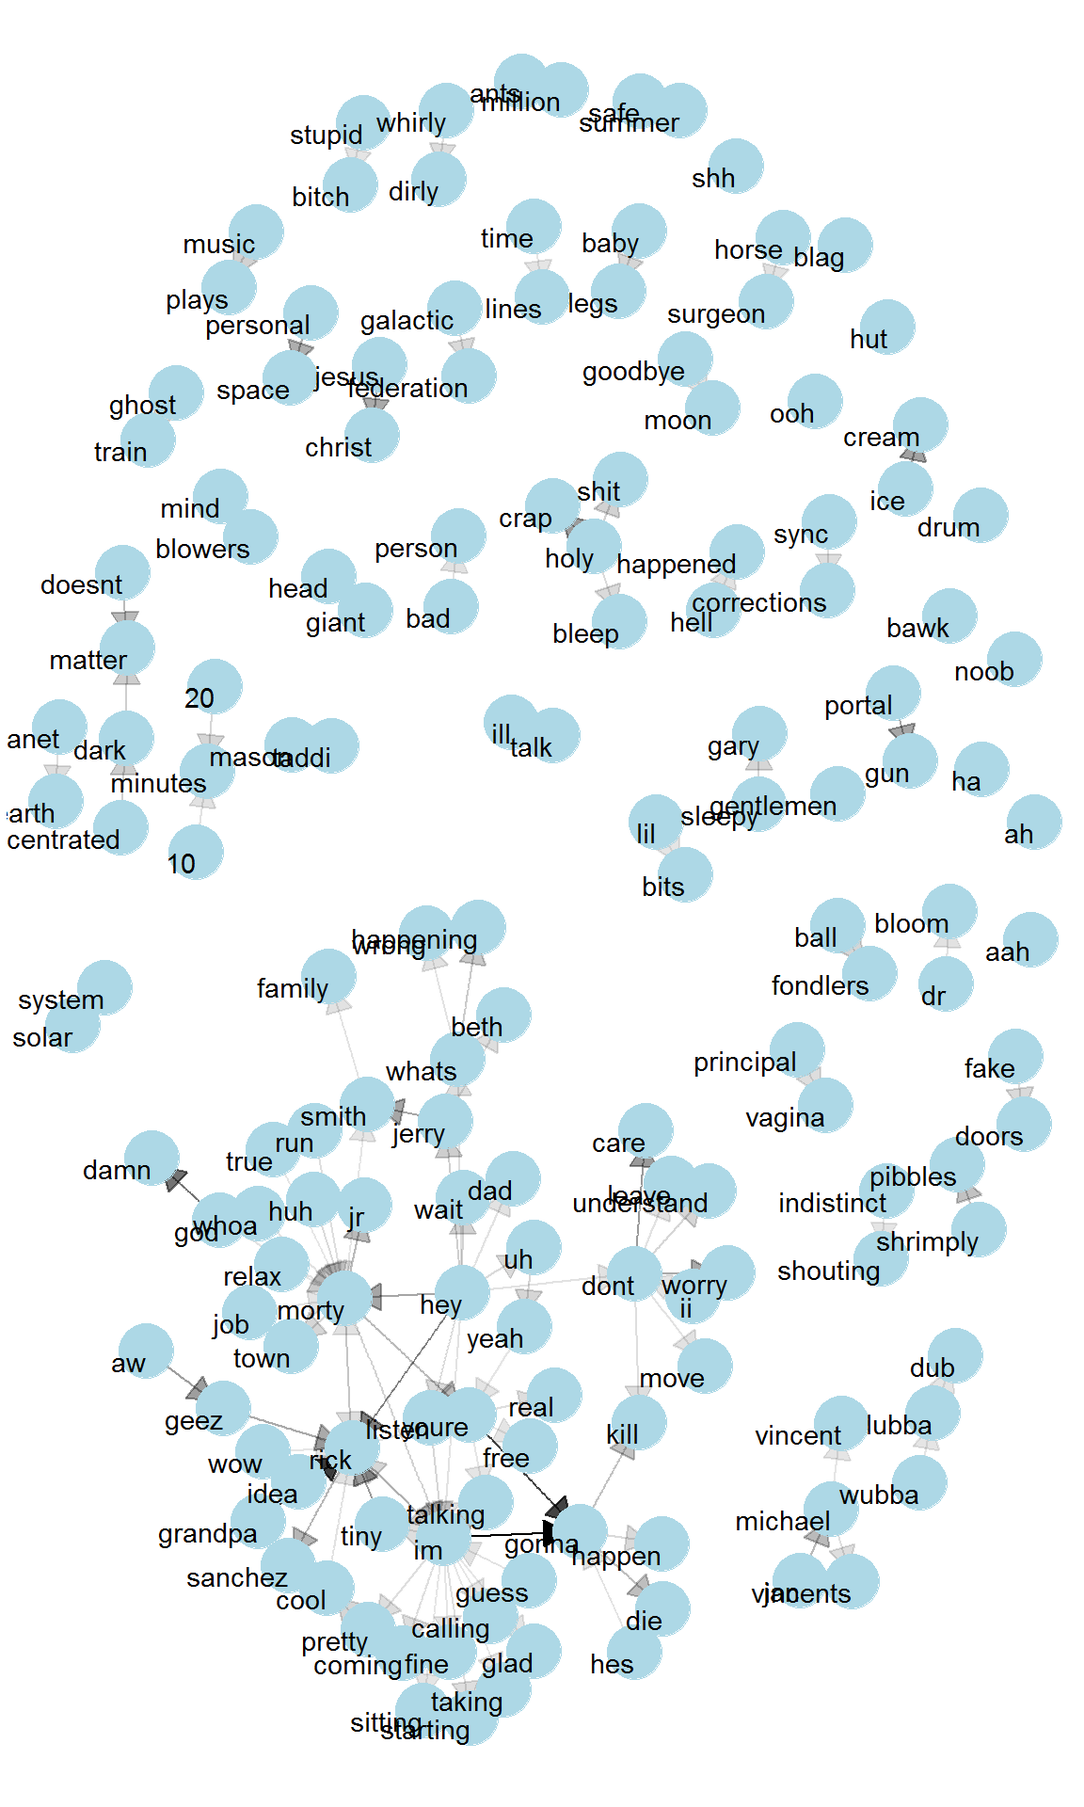
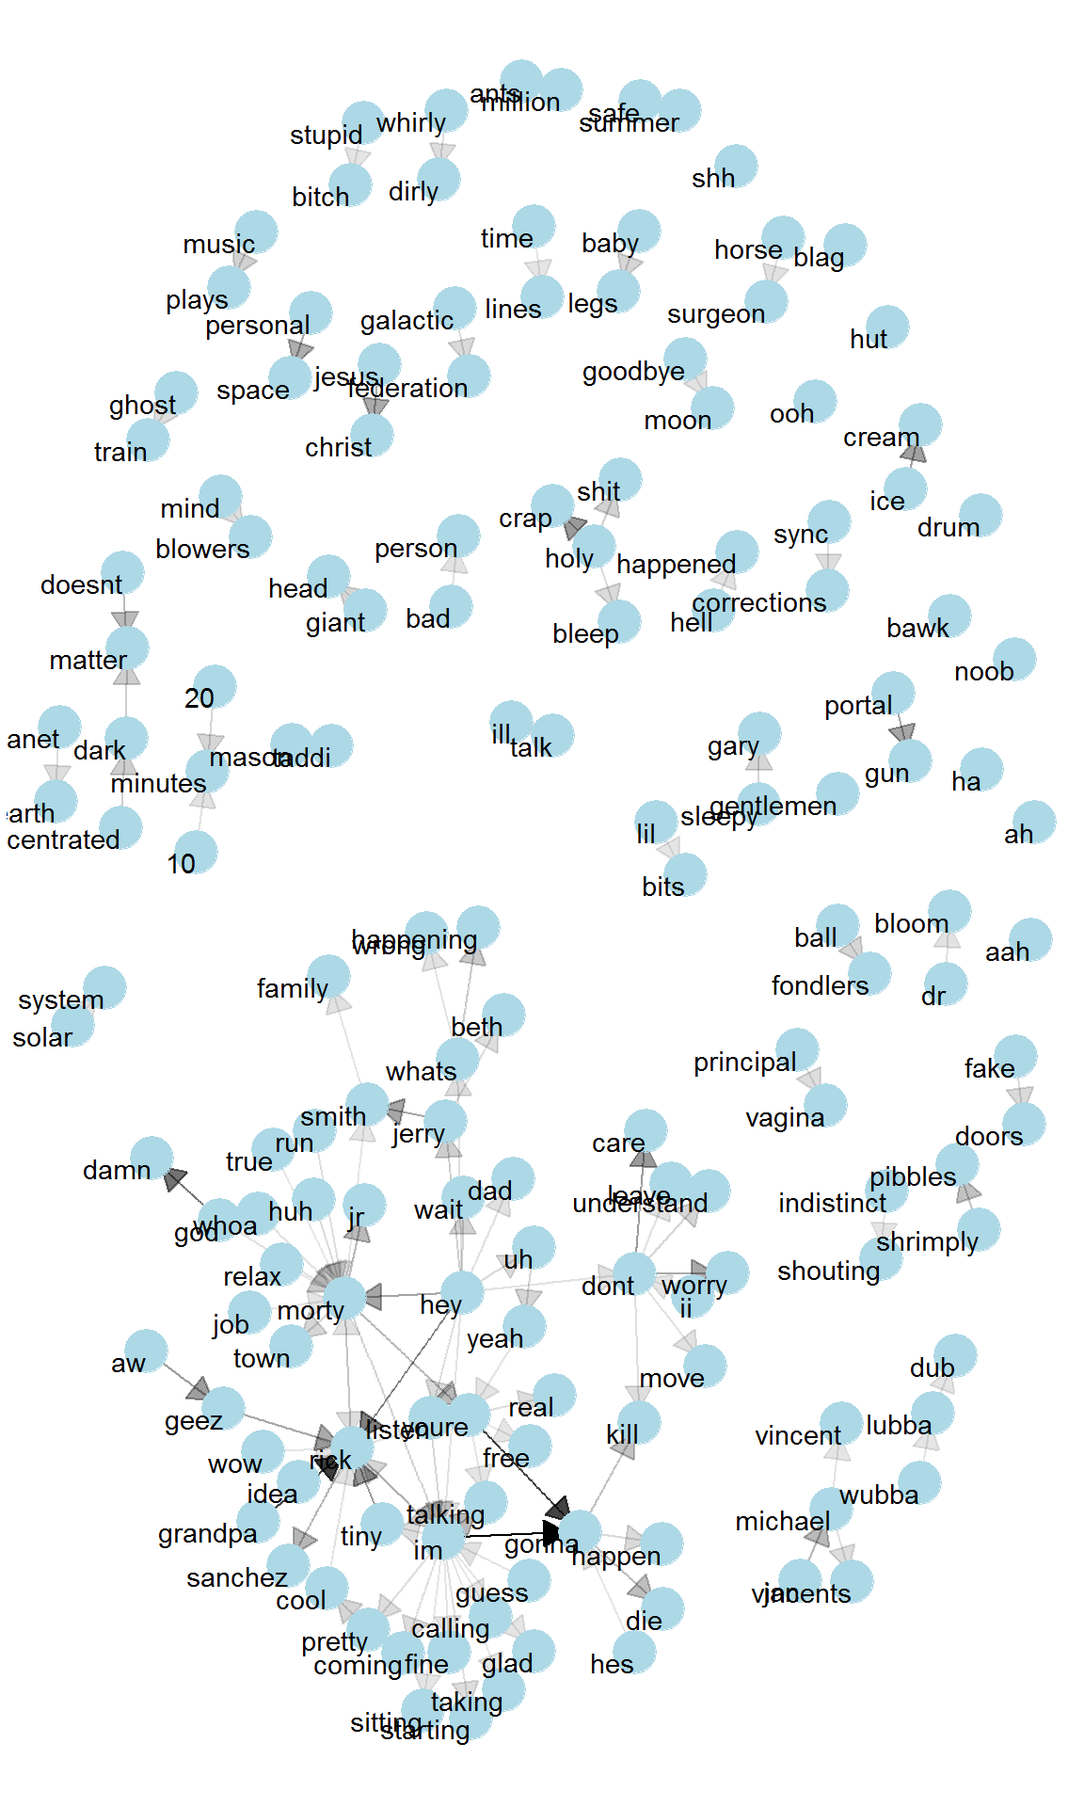
n

diff --git a/public/2017/11/06/test-page/index.html b/public/2017/11/06/test-page/index.html
@@ -134,9 +134,12 @@ ggplot(randmSent, aes(sentiment)) + geom_bar(fill = &quot;orange&quot;, color = 
 </div>
 <div id="number-of-times-each-character-is-mentioned-per-season" class="section level3">
 <h3>Number of times each character is mentioned per season:</h3>
-<p><img src="/post/2017-11-06-test-page_files/figure-html/unnamed-chunk-5-1.png" width="672" /> #### It’s not suprising that the most mentioned characters of Rick and Morty are Rick and Morty. However, we can see Morty was the real star of the first season. He was mentioned about twice as much as Rick and after the first season, he dropped all the way down. Justin Roiland, the voice of Rick and Morty, said he felt Rick saying “Morty” was a verbal crutch and wanted to try to get rid of it. As we can see by the graph, he really did follow through.</p>
-<div id="term-frequencies-are-a-large-part-in-text-mining.-so-lets-plot-the-top-20-words-per-season-and-exclude-main-character-names-very-common-everyday-words-aka-stop-words-and-some-random-words-from-the-subtitle-file." class="section level4">
-<h4>Term frequencies are a large part in text mining. So, let’s plot the top 20 words per season and exclude main character names, very common everyday words, aka stop words, and some random words from the subtitle file.</h4>
+<p><img src="/post/2017-11-06-test-page_files/figure-html/unnamed-chunk-5-1.png" width="672" /></p>
+<div id="its-not-suprising-that-the-most-mentioned-characters-of-rick-and-morty-are-rick-and-morty.-however-we-can-see-morty-was-the-real-star-of-the-first-season.-he-was-mentioned-about-twice-as-much-as-rick-and-after-the-first-season-he-dropped-all-the-way-down.-justin-roiland-the-voice-of-rick-and-morty-said-in-a-podast-that-he-felt-rick-saying-morty-was-a-verbal-crutch-and-wanted-to-try-to-get-rid-of-it.-as-we-can-see-by-the-graph-he-really-did-follow-through." class="section level4">
+<h4>It’s not suprising that the most mentioned characters of Rick and Morty are Rick and Morty. However, we can see Morty was the real star of the first season. He was mentioned about twice as much as Rick and after the first season, he dropped all the way down. Justin Roiland, the voice of Rick and Morty, said in a podast that he felt Rick saying “Morty” was a verbal crutch and wanted to try to get rid of it. As we can see by the graph, he really did follow through.</h4>
+</div>
+<div id="tf-idf-is-the-term-frequency-inverse-document-frequency.-it-is-a-large-part-in-text-mining.-words-that-appear-often-get-a-lower-tf-idf-and-uncommon-ones-a-higher-tf-idf.-so-lets-plot-the-top-20-words-per-season-and-exclude-main-character-names-very-common-everyday-words-aka-stop-words-and-some-random-words-from-the-subtitle-file." class="section level4">
+<h4>TF-IDF is the term frequency-inverse document frequency. It is a large part in text mining. Words that appear often get a lower tf-idf and uncommon ones a higher tf-idf. So, let’s plot the top 20 words per season and exclude main character names, very common everyday words, aka stop words, and some random words from the subtitle file.</h4>
 <pre class="r"><code>
 episodeWords &lt;- df %&gt;% unnest_tokens(word, Text) %&gt;% anti_join(
 rbind(data.frame(word = c(&quot;xhmikosr&quot;, &quot;www.addic7ed.com&quot;, &quot;sync&quot;,
@@ -149,11 +152,13 @@ plotWords &lt;- episodeWords %&gt;% arrange(desc(tf_idf)) %&gt;% mutate(word =fa
 plotWords %&gt;% top_n(20) %&gt;% ggplot(aes(word, tf_idf, fill = as.factor(season_num))) + geom_col() + labs(x=
 NULL, y = &quot;tf-idf&quot;) + coord_flip() </code></pre>
 <p><img src="/post/2017-11-06-test-page_files/figure-html/unnamed-chunk-6-1.png" width="576" /></p>
-<p>We can see from that the top positions for each season are: meeseeks, unity and pickle, which, if you watch Rick and Morty, is not so suprising. One thing I loved is the word “noob” made the list. Noob Noob is a favorite character of mine. Although, he had few screentime, he still managed to make an impact on the episode/season.</p>
+<p>We can see from that the top positions for each season are: meeseeks, unity and pickle, which, if you watch Rick and Morty, is not so suprising.</p>
 </div>
 </div>
-<div id="now-we-go-to-another-imortant-topic-in-text-mining-n-grams." class="section level2">
-<h2>Now we go to another imortant topic in text mining, N-Grams.</h2>
+<div id="now-we-go-to-another-important-topic-in-text-mining-n-grams." class="section level2">
+<h2>Now we go to another important topic in text mining, N-Grams.</h2>
+<div id="n-grams-allow-us-to-look-at-the-relationship-between-words-in-text.-we-will-use-bigrams-theyre-called-bigrams-because-we-set-n2-which-means-we-are-looking-at-only-pairs-of-words-at-a-time.-if-we-wanted-to-look-at-pairs-of-three-words-this-could-easily-be-done-by-switching-n-3-in-the-previous-code-block-but-bigrams-should-work-best.-using-bigrams-we-can-see-what-words-follow-specific-words.-this-is-how-we-can-approach-the-problem-with-the-word-god-from-the-sentiment." class="section level4">
+<h4>N-grams allow us to look at the relationship between words in text. We will use bigrams, they’re called bigrams because we set N=2, which means we are looking at only pairs of words at a time. If we wanted to look at pairs of three words, this could easily be done by switching n = 3, in the previous code block, but bigrams should work best. Using bigrams, we can see what words follow specific words. This is how we can approach the problem with the word “god” from the sentiment.</h4>
 <pre class="r"><code>plotWords %&gt;% group_by(season_num) %&gt;% top_n(15) %&gt;% ungroup %&gt;%
 ggplot(aes(word, tf_idf, fill = as.factor(season_num))) + geom_col(show.legend =
 FALSE) + labs(x = NULL, y = &quot;tf-idf&quot;) + facet_wrap(~season_num, ncol = 1, scales
@@ -192,14 +197,13 @@ episodeGramsSeperate %&gt;% filter(word2 ==&quot;god&quot;) %&gt;% count(word1, 
 ## 5     a     4
 bigram_tf_idf &lt;- gramcountUnited %&gt;% filter((bigram != &quot;xhmikosrwwwaddic7edcom&quot;) &amp; (bigram != &quot;suspenseful music plays&quot;) &amp; (bigram != &quot;music
 plays&quot;)  &amp; (bigram != &quot;suspenseful music&quot;) &amp;  (bigram != &quot;speaking alien language&quot;) &amp; (bigram != &quot;laughter&quot;)) %&gt;% count(season_num, bigram) %&gt;% bind_tf_idf(bigram, season_num, n)%&gt;% arrange(desc(tf_idf))  </code></pre>
-<div id="n-grams-allow-us-to-look-at-the-relationship-between-words-in-text.-we-will-use-bigrams-theyre-called-bigrams-because-we-set-n2-which-means-we-are-looking-at-only-pairs-of-words-at-a-time.-if-we-wanted-to-look-at-pairs-of-three-words-this-could-easily-be-done-by-switching-n-3-in-the-previous-code-block-but-bigrams-should-work-best.-using-bigrams-we-can-see-what-words-follow-specific-words.-this-is-how-we-can-approach-the-problem-with-the-word-god-from-the-sentiment.-from-the-table-above-we-can-see-the-words-following-the-word-god-and-the-words-after-the-word-god.-it-looks-like-my-godoh-god-and-god-damn-are-the-most-commonly-used-phrases-with-the-word-god.-if-we-assume-the-context-of-these-phrases-to-be-stricktly-negative-which-as-an-avid-fan-i-can-say-that-they-are-definitely-used-more-in-a-negative-context-and-if-we-treat-them-as-such-lets-see-how-that-changes-the-overall-sentiment-of-the-show." class="section level4">
-<h4>N-grams allow us to look at the relationship between words in text. We will use bigrams, they’re called bigrams because we set N=2, which means we are looking at only pairs of words at a time. If we wanted to look at pairs of three words, this could easily be done by switching n = 3, in the previous code block, but bigrams should work best. Using bigrams, we can see what words follow specific words. This is how we can approach the problem with the word “god” from the sentiment. From the table above, we can see the words following the word “god” and the words after the word “god”. It looks like “my god”“,”oh god&quot; and “god damn” are the most commonly used phrases with the word god. If we assume the context of these phrases to be stricktly negative, which as an avid fan, I can say that they are definitely used more in a negative context and if we treat them as such, let’s see how that changes the overall sentiment of the show.</h4>
 <pre class="r"><code>randmSent &lt;- tidydf %&gt;% inner_join(nrcSent)
 ## Joining, by = &quot;word&quot;
 randmSent[which(randmSent$word ==&quot;god&quot;),]$sentiment &lt;-&quot;negative&quot;
 randmSent &lt;- randmSent %&gt;% filter(sentiment == &quot;positive&quot; | sentiment == &quot;negative&quot;)
 ggplot(randmSent, aes(sentiment)) +geom_bar(fill = &quot;orange&quot;, color = &quot;black&quot;)</code></pre>
-<p><img src="/post/2017-11-06-test-page_files/figure-html/unnamed-chunk-8-1.png" width="672" /> #### Now we get a graph that Rick and Morty fans might find more accurate. I know I do.</p>
+<p><img src="/post/2017-11-06-test-page_files/figure-html/unnamed-chunk-8-1.png" width="672" /> #### From the table above, we can see the words following the word “god” and the words after the word “god”. It looks like “my god”“,”oh god&quot; and “god damn” are the most commonly used phrases with the word god. If we assume the context of these phrases to be stricktly negative, which as an avid fan, I can say that they are definitely used more in a negative context and if we treat them as such, let’s see how that changes the overall sentiment of the show.<br />
+#### Now we get a graph that Rick and Morty fans might find more accurate. I know I do.</p>
 <p>Using bigrams again, we can see the most used pair words for each season. If you have watched the Interdimensional Cable episode, it is not suprise that Jan Michael is on the list. Pretty good looking graph using bigrams. Finally, visualizing the network of bigrams is works really well to see how the bigrams connect with other words and bigrams in the text. Not suprising to see that most words lead back to Rick</p>
 <pre class="r"><code>bigram_tf_idf %&gt;% group_by(season_num) %&gt;% top_n(5) %&gt;% ungroup %&gt;% ggplot(aes(bigram, tf_idf, fill = as.factor(season_num))) +geom_col(show.legend =  FALSE) + labs(x = NULL, y =&quot;tf-idf&quot;) + facet_wrap(~season_num, ncol = 1, scales = &quot;free&quot;) + coord_flip()
 ## Selecting by tf_idf</code></pre>
@@ -211,7 +215,7 @@ x &lt;- grid::arrow(type = &quot;closed&quot;, length = unit(.15, &quot;inches&q
 
 ggraph(bigram_graph, layout = &quot;fr&quot;) + geom_edge_link(aes(edge_alpha = n),
   show.legend = FALSE, arrow = x, end_cap = circle(.07, &#39;inches&#39;)) +
-  geom_node_point(color = &quot;lightblue&quot;, size = 10) + geom_node_text(aes(label =name), vjust = 1, hjust = 1) + theme_void()</code></pre>
+  geom_node_point(color = &quot;lightblue&quot;, size = 8) + geom_node_text(aes(label =name), vjust = 1, hjust = 1) + theme_void()</code></pre>
 <p><img src="/post/2017-11-06-test-page_files/figure-html/unnamed-chunk-9-2.png" width="576" /> ## <strong>Summary</strong></p>
 </div>
 </div>

diff --git a/content/post/2017-11-06-test-page.html b/content/post/2017-11-06-test-page.html
@@ -74,9 +74,12 @@ ggplot(randmSent, aes(sentiment)) + geom_bar(fill = &quot;orange&quot;, color = 
 </div>
 <div id="number-of-times-each-character-is-mentioned-per-season" class="section level3">
 <h3>Number of times each character is mentioned per season:</h3>
-<p><img src="/post/2017-11-06-test-page_files/figure-html/unnamed-chunk-5-1.png" width="672" /> #### It’s not suprising that the most mentioned characters of Rick and Morty are Rick and Morty. However, we can see Morty was the real star of the first season. He was mentioned about twice as much as Rick and after the first season, he dropped all the way down. Justin Roiland, the voice of Rick and Morty, said he felt Rick saying “Morty” was a verbal crutch and wanted to try to get rid of it. As we can see by the graph, he really did follow through.</p>
-<div id="term-frequencies-are-a-large-part-in-text-mining.-so-lets-plot-the-top-20-words-per-season-and-exclude-main-character-names-very-common-everyday-words-aka-stop-words-and-some-random-words-from-the-subtitle-file." class="section level4">
-<h4>Term frequencies are a large part in text mining. So, let’s plot the top 20 words per season and exclude main character names, very common everyday words, aka stop words, and some random words from the subtitle file.</h4>
+<p><img src="/post/2017-11-06-test-page_files/figure-html/unnamed-chunk-5-1.png" width="672" /></p>
+<div id="its-not-suprising-that-the-most-mentioned-characters-of-rick-and-morty-are-rick-and-morty.-however-we-can-see-morty-was-the-real-star-of-the-first-season.-he-was-mentioned-about-twice-as-much-as-rick-and-after-the-first-season-he-dropped-all-the-way-down.-justin-roiland-the-voice-of-rick-and-morty-said-in-a-podast-that-he-felt-rick-saying-morty-was-a-verbal-crutch-and-wanted-to-try-to-get-rid-of-it.-as-we-can-see-by-the-graph-he-really-did-follow-through." class="section level4">
+<h4>It’s not suprising that the most mentioned characters of Rick and Morty are Rick and Morty. However, we can see Morty was the real star of the first season. He was mentioned about twice as much as Rick and after the first season, he dropped all the way down. Justin Roiland, the voice of Rick and Morty, said in a podast that he felt Rick saying “Morty” was a verbal crutch and wanted to try to get rid of it. As we can see by the graph, he really did follow through.</h4>
+</div>
+<div id="tf-idf-is-the-term-frequency-inverse-document-frequency.-it-is-a-large-part-in-text-mining.-words-that-appear-often-get-a-lower-tf-idf-and-uncommon-ones-a-higher-tf-idf.-so-lets-plot-the-top-20-words-per-season-and-exclude-main-character-names-very-common-everyday-words-aka-stop-words-and-some-random-words-from-the-subtitle-file." class="section level4">
+<h4>TF-IDF is the term frequency-inverse document frequency. It is a large part in text mining. Words that appear often get a lower tf-idf and uncommon ones a higher tf-idf. So, let’s plot the top 20 words per season and exclude main character names, very common everyday words, aka stop words, and some random words from the subtitle file.</h4>
 <pre class="r"><code>
 episodeWords &lt;- df %&gt;% unnest_tokens(word, Text) %&gt;% anti_join(
 rbind(data.frame(word = c(&quot;xhmikosr&quot;, &quot;www.addic7ed.com&quot;, &quot;sync&quot;,
@@ -89,11 +92,13 @@ plotWords &lt;- episodeWords %&gt;% arrange(desc(tf_idf)) %&gt;% mutate(word =fa
 plotWords %&gt;% top_n(20) %&gt;% ggplot(aes(word, tf_idf, fill = as.factor(season_num))) + geom_col() + labs(x=
 NULL, y = &quot;tf-idf&quot;) + coord_flip() </code></pre>
 <p><img src="/post/2017-11-06-test-page_files/figure-html/unnamed-chunk-6-1.png" width="576" /></p>
-<p>We can see from that the top positions for each season are: meeseeks, unity and pickle, which, if you watch Rick and Morty, is not so suprising. One thing I loved is the word “noob” made the list. Noob Noob is a favorite character of mine. Although, he had few screentime, he still managed to make an impact on the episode/season.</p>
+<p>We can see from that the top positions for each season are: meeseeks, unity and pickle, which, if you watch Rick and Morty, is not so suprising.</p>
 </div>
 </div>
-<div id="now-we-go-to-another-imortant-topic-in-text-mining-n-grams." class="section level2">
-<h2>Now we go to another imortant topic in text mining, N-Grams.</h2>
+<div id="now-we-go-to-another-important-topic-in-text-mining-n-grams." class="section level2">
+<h2>Now we go to another important topic in text mining, N-Grams.</h2>
+<div id="n-grams-allow-us-to-look-at-the-relationship-between-words-in-text.-we-will-use-bigrams-theyre-called-bigrams-because-we-set-n2-which-means-we-are-looking-at-only-pairs-of-words-at-a-time.-if-we-wanted-to-look-at-pairs-of-three-words-this-could-easily-be-done-by-switching-n-3-in-the-previous-code-block-but-bigrams-should-work-best.-using-bigrams-we-can-see-what-words-follow-specific-words.-this-is-how-we-can-approach-the-problem-with-the-word-god-from-the-sentiment." class="section level4">
+<h4>N-grams allow us to look at the relationship between words in text. We will use bigrams, they’re called bigrams because we set N=2, which means we are looking at only pairs of words at a time. If we wanted to look at pairs of three words, this could easily be done by switching n = 3, in the previous code block, but bigrams should work best. Using bigrams, we can see what words follow specific words. This is how we can approach the problem with the word “god” from the sentiment.</h4>
 <pre class="r"><code>plotWords %&gt;% group_by(season_num) %&gt;% top_n(15) %&gt;% ungroup %&gt;%
 ggplot(aes(word, tf_idf, fill = as.factor(season_num))) + geom_col(show.legend =
 FALSE) + labs(x = NULL, y = &quot;tf-idf&quot;) + facet_wrap(~season_num, ncol = 1, scales
@@ -132,14 +137,13 @@ episodeGramsSeperate %&gt;% filter(word2 ==&quot;god&quot;) %&gt;% count(word1, 
 ## 5     a     4
 bigram_tf_idf &lt;- gramcountUnited %&gt;% filter((bigram != &quot;xhmikosrwwwaddic7edcom&quot;) &amp; (bigram != &quot;suspenseful music plays&quot;) &amp; (bigram != &quot;music
 plays&quot;)  &amp; (bigram != &quot;suspenseful music&quot;) &amp;  (bigram != &quot;speaking alien language&quot;) &amp; (bigram != &quot;laughter&quot;)) %&gt;% count(season_num, bigram) %&gt;% bind_tf_idf(bigram, season_num, n)%&gt;% arrange(desc(tf_idf))  </code></pre>
-<div id="n-grams-allow-us-to-look-at-the-relationship-between-words-in-text.-we-will-use-bigrams-theyre-called-bigrams-because-we-set-n2-which-means-we-are-looking-at-only-pairs-of-words-at-a-time.-if-we-wanted-to-look-at-pairs-of-three-words-this-could-easily-be-done-by-switching-n-3-in-the-previous-code-block-but-bigrams-should-work-best.-using-bigrams-we-can-see-what-words-follow-specific-words.-this-is-how-we-can-approach-the-problem-with-the-word-god-from-the-sentiment.-from-the-table-above-we-can-see-the-words-following-the-word-god-and-the-words-after-the-word-god.-it-looks-like-my-godoh-god-and-god-damn-are-the-most-commonly-used-phrases-with-the-word-god.-if-we-assume-the-context-of-these-phrases-to-be-stricktly-negative-which-as-an-avid-fan-i-can-say-that-they-are-definitely-used-more-in-a-negative-context-and-if-we-treat-them-as-such-lets-see-how-that-changes-the-overall-sentiment-of-the-show." class="section level4">
-<h4>N-grams allow us to look at the relationship between words in text. We will use bigrams, they’re called bigrams because we set N=2, which means we are looking at only pairs of words at a time. If we wanted to look at pairs of three words, this could easily be done by switching n = 3, in the previous code block, but bigrams should work best. Using bigrams, we can see what words follow specific words. This is how we can approach the problem with the word “god” from the sentiment. From the table above, we can see the words following the word “god” and the words after the word “god”. It looks like “my god”“,”oh god&quot; and “god damn” are the most commonly used phrases with the word god. If we assume the context of these phrases to be stricktly negative, which as an avid fan, I can say that they are definitely used more in a negative context and if we treat them as such, let’s see how that changes the overall sentiment of the show.</h4>
 <pre class="r"><code>randmSent &lt;- tidydf %&gt;% inner_join(nrcSent)
 ## Joining, by = &quot;word&quot;
 randmSent[which(randmSent$word ==&quot;god&quot;),]$sentiment &lt;-&quot;negative&quot;
 randmSent &lt;- randmSent %&gt;% filter(sentiment == &quot;positive&quot; | sentiment == &quot;negative&quot;)
 ggplot(randmSent, aes(sentiment)) +geom_bar(fill = &quot;orange&quot;, color = &quot;black&quot;)</code></pre>
-<p><img src="/post/2017-11-06-test-page_files/figure-html/unnamed-chunk-8-1.png" width="672" /> #### Now we get a graph that Rick and Morty fans might find more accurate. I know I do.</p>
+<p><img src="/post/2017-11-06-test-page_files/figure-html/unnamed-chunk-8-1.png" width="672" /> #### From the table above, we can see the words following the word “god” and the words after the word “god”. It looks like “my god”“,”oh god&quot; and “god damn” are the most commonly used phrases with the word god. If we assume the context of these phrases to be stricktly negative, which as an avid fan, I can say that they are definitely used more in a negative context and if we treat them as such, let’s see how that changes the overall sentiment of the show.<br />
+#### Now we get a graph that Rick and Morty fans might find more accurate. I know I do.</p>
 <p>Using bigrams again, we can see the most used pair words for each season. If you have watched the Interdimensional Cable episode, it is not suprise that Jan Michael is on the list. Pretty good looking graph using bigrams. Finally, visualizing the network of bigrams is works really well to see how the bigrams connect with other words and bigrams in the text. Not suprising to see that most words lead back to Rick</p>
 <pre class="r"><code>bigram_tf_idf %&gt;% group_by(season_num) %&gt;% top_n(5) %&gt;% ungroup %&gt;% ggplot(aes(bigram, tf_idf, fill = as.factor(season_num))) +geom_col(show.legend =  FALSE) + labs(x = NULL, y =&quot;tf-idf&quot;) + facet_wrap(~season_num, ncol = 1, scales = &quot;free&quot;) + coord_flip()
 ## Selecting by tf_idf</code></pre>
@@ -151,7 +155,7 @@ x &lt;- grid::arrow(type = &quot;closed&quot;, length = unit(.15, &quot;inches&q
 
 ggraph(bigram_graph, layout = &quot;fr&quot;) + geom_edge_link(aes(edge_alpha = n),
   show.legend = FALSE, arrow = x, end_cap = circle(.07, &#39;inches&#39;)) +
-  geom_node_point(color = &quot;lightblue&quot;, size = 10) + geom_node_text(aes(label =name), vjust = 1, hjust = 1) + theme_void()</code></pre>
+  geom_node_point(color = &quot;lightblue&quot;, size = 8) + geom_node_text(aes(label =name), vjust = 1, hjust = 1) + theme_void()</code></pre>
 <p><img src="/post/2017-11-06-test-page_files/figure-html/unnamed-chunk-9-2.png" width="576" /> ## <strong>Summary</strong></p>
 </div>
 </div>
